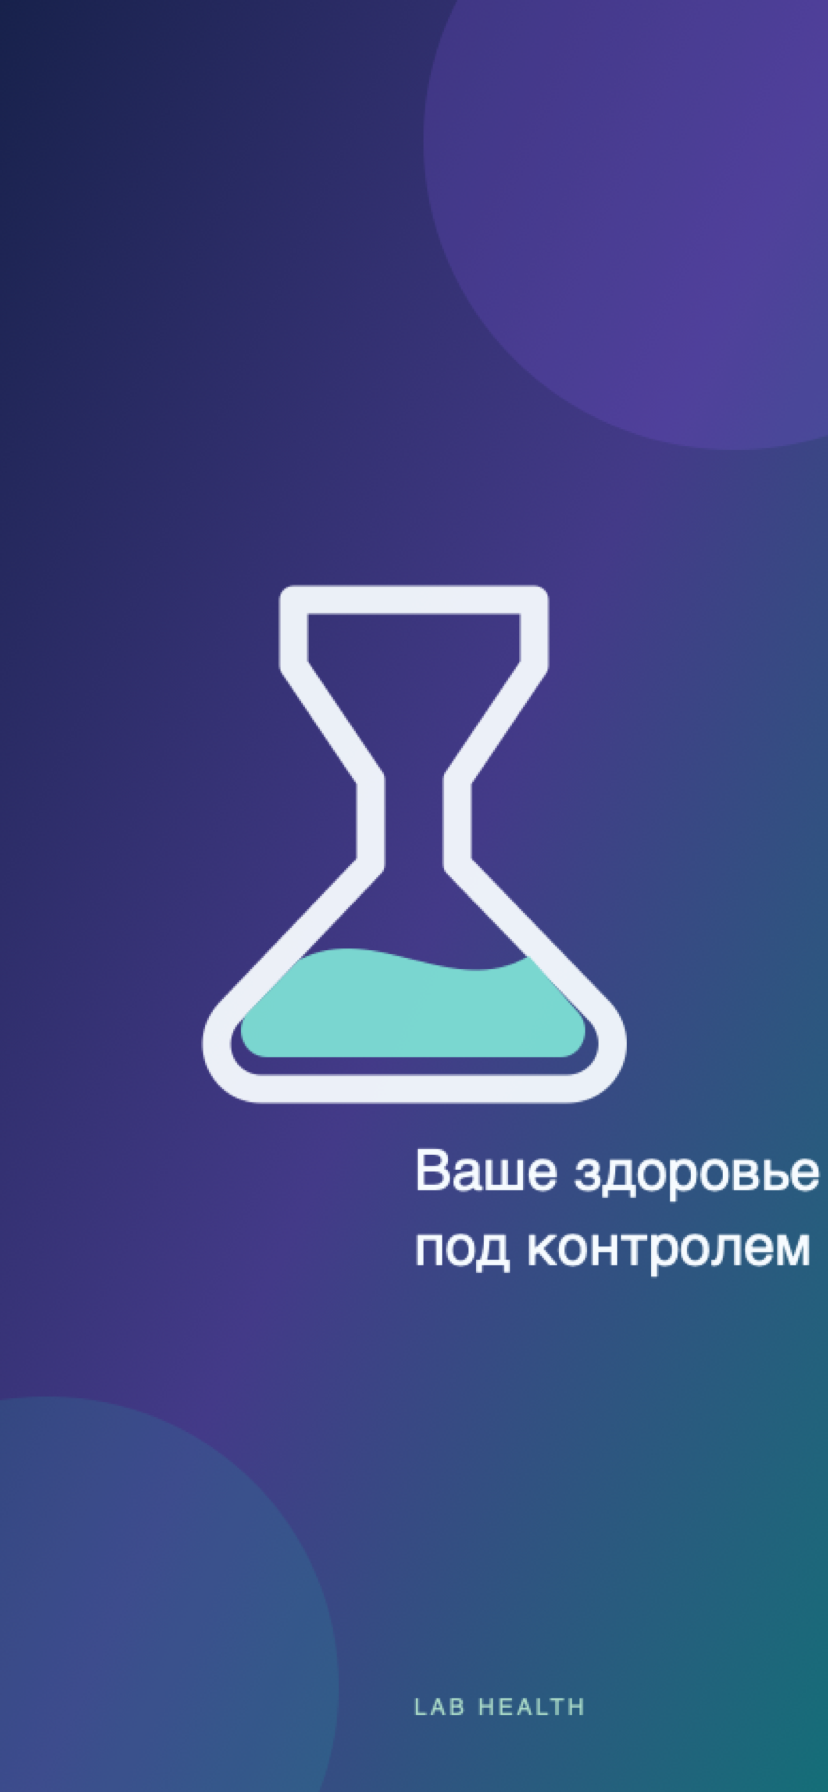
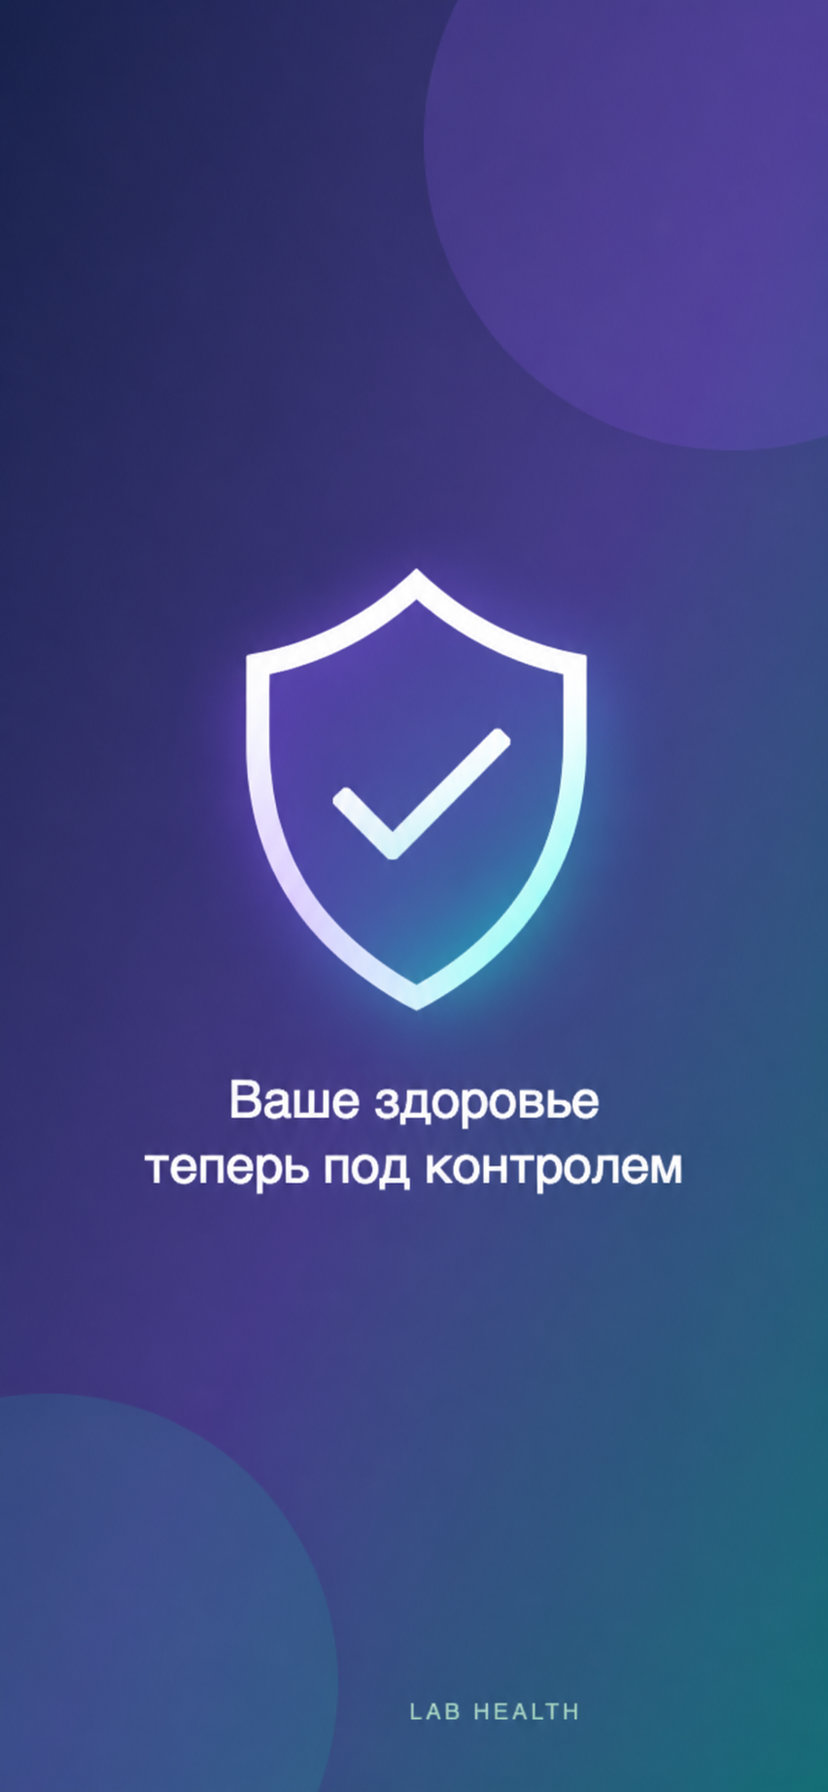
fix: make mobile canvas truly edge to edge

Changed region(s): [[0.1812, 0.3125, 0.9964, 0.7188], [0.4831, 0.9375, 0.6944, 0.9688]]

diff --git a/App.tsx b/App.tsx
@@ -31,7 +31,7 @@ import { colors, shadow } from "./src/theme";
 
 type Tab = "home" | "analyses" | "patients" | "consultations" | "doctors" | "ai" | "guides" | "profile";
 type Asset = { uri: string; name: string; mimeType?: string; file?: Blob };
-const APP_VERSION = process.env.EXPO_PUBLIC_APP_VERSION || "0.9.5";
+const APP_VERSION = process.env.EXPO_PUBLIC_APP_VERSION || "0.9.6";
 const LAST_LOGIN_KEY = "lab.last-login";
 const LAST_NAME_KEY = "lab.last-name";
 const nutritionImages = [require("./assets/nutrition/young.jpg"),require("./assets/nutrition/middle.jpg"),require("./assets/nutrition/senior.jpg")];
@@ -107,6 +107,7 @@ export default function App() {
 
 function AppContent() {
   const [boot, setBoot] = useState(true);
+  const splashOpacity = useRef(new Animated.Value(1)).current;
   const [user, setUser] = useState<User | null>(null);
   const [tab, setTab] = useState<Tab>("home");
   const [analyses, setAnalyses] = useState<Analysis[]>([]);
@@ -126,7 +127,7 @@ function AppContent() {
     if (viewport) viewport.content = "width=device-width, initial-scale=1, maximum-scale=1, user-scalable=no, viewport-fit=cover";
     Object.assign(document.documentElement.style, { width: "100%", height: "100%", overflow: "hidden", overscrollBehavior: "none" });
     Object.assign(document.body.style, { width: "100%", height: "100%", margin: "0", overflow: "hidden", position: "fixed", inset: "0", overscrollBehavior: "none" });
-    if (root) Object.assign(root.style, { width: "100%", height: "100%", overflow: "hidden" });
+    if (root) Object.assign(root.style, { position: "fixed", inset: "0", width: "auto", height: "auto", minHeight: "0", overflow: "hidden" });
   }, []);
   async function refresh(u = user) {
     if (!u) return;
@@ -162,7 +163,7 @@ function AppContent() {
   }
   useEffect(() => {
     (async () => {
-      const minimumSplash = new Promise((resolve) => setTimeout(resolve, 900));
+      const minimumSplash = new Promise((resolve) => setTimeout(resolve, 2000));
       try {
         if (await restoreToken()) {
           const u = await api.me();
@@ -173,11 +174,11 @@ function AppContent() {
         await setToken("");
       } finally {
         await minimumSplash;
-        setBoot(false);
+        Animated.timing(splashOpacity, { toValue: 0, duration: 360, useNativeDriver: true }).start(() => setBoot(false));
       }
     })();
   }, []);
-  if (boot) return <Loading />;
+  if (boot) return <Loading opacity={splashOpacity} />;
   if (!user)
     return (
       <Auth
@@ -247,7 +248,8 @@ function AppContent() {
     : [screenBackground, screenBackground];
   const chromeBackground = immersiveHeader ? "#17214B" : screenBackground;
   return (
-    <LinearGradient colors={chromeColors} start={{x:0,y:0}} end={{x:1,y:1}} style={s.safe}>
+    <View style={s.safe}>
+      {immersiveHeader && <LinearGradient pointerEvents="none" colors={chromeColors} start={{x:0,y:0}} end={{x:1,y:1}} style={s.immersiveBackdrop}/>}
       <SystemChrome dark={immersiveHeader} background={chromeBackground} canvas={screenBackground} />
       <SafeAreaView edges={["top"]} style={s.safeInner}>
       <View style={s.shell}>
@@ -284,7 +286,7 @@ function AppContent() {
         onError={setError}
       />
       </SafeAreaView>
-    </LinearGradient>
+    </View>
   );
 }
 
@@ -308,6 +310,7 @@ function ageFromBirthDate(value: string) {
 }
 
 function Auth({ onDone }: { onDone: (u: User, t: string) => void }) {
+  const entranceOpacity = useRef(new Animated.Value(0)).current;
   const [remembered, setRemembered] = useState(() => Platform.OS === "web" && typeof localStorage !== "undefined" ? localStorage.getItem(LAST_LOGIN_KEY) || "" : "");
   const [rememberedName, setRememberedName] = useState(() => Platform.OS === "web" && typeof localStorage !== "undefined" ? localStorage.getItem(LAST_NAME_KEY) || "" : "");
   const [phase, setPhase] = useState<"welcome" | "pin" | "register" | "about">("welcome");
@@ -327,6 +330,9 @@ function Auth({ onDone }: { onDone: (u: User, t: string) => void }) {
   const age = ageFromBirthDate(form.birthDate);
   const profileReady = age > 0 && Number(form.heightCM) > 0 && Number(form.weightKG) > 0;
   const registrationReady = /^\d{4}$/.test(form.pin) && age > 0 && Number(form.heightCM) > 0 && Number(form.weightKG) > 0;
+  useEffect(() => {
+    Animated.timing(entranceOpacity, { toValue: 1, duration: 460, useNativeDriver: true }).start();
+  }, [entranceOpacity]);
   function remember(user: User) {
     if (Platform.OS !== "web" || typeof localStorage === "undefined") return;
     localStorage.setItem(LAST_LOGIN_KEY, user.email);
@@ -383,12 +389,11 @@ function Auth({ onDone }: { onDone: (u: User, t: string) => void }) {
     setPhase("welcome");
     setError("");
   }
-  const backdrop = <><View style={s.authOrbOne}/><View style={s.authOrbTwo}/><View style={[s.authLabSheet,s.authLabSheetOne]}><Ionicons name="document-text-outline" size={25} color="#B9C6FF"/><View><View style={s.authLabLine}/><View style={[s.authLabLine,{width:46}]}/><View style={[s.authLabLine,{width:30}]}/></View></View><View style={[s.authLabSheet,s.authLabSheetTwo]}><Ionicons name="flask-outline" size={25} color="#7DE0D5"/><View><View style={s.authLabLine}/><View style={[s.authLabLine,{width:38}]}/></View></View></>;
   return (
-    <LinearGradient colors={["#17214B","#3D367A","#146E78"]} start={{x:0,y:0}} end={{x:1,y:1}} style={s.authOuter}>
-      <SystemChrome dark background="#17214B" canvas="#146E78"/>
+    <Animated.View style={[s.authOuter,{opacity:entranceOpacity}]}>
+      <Image source={require("./assets/auth-background-v2.png")} resizeMode="cover" style={s.fullBleedImage}/>
+      <SystemChrome dark background="#17214B" canvas="#17214B"/>
       <SafeAreaView edges={["top","right","bottom","left"]} style={s.authScreen}>
-        {backdrop}
         {phase === "welcome" && <View style={s.authWelcome}>
           <View style={s.authWelcomeCopy}><Text style={s.authWelcomeTitle}>{rememberedName ? `Здравствуйте, ${rememberedName}` : "Добро пожаловать"}</Text><Text style={s.authWelcomeSlogan}>{remembered ? "Ваше здоровье под контролем" : "Все результаты здоровья — в одном месте"}</Text></View>
           <View style={s.authWelcomeActions}>{remembered ? <><Pressable accessibilityRole="button" style={({pressed})=>[s.authLoginGlass,pressed&&{transform:[{scale:.98}],opacity:.7}]} onPress={()=>{setPhase("pin");setForm(current=>({...current,pin:""}));}}><Text style={s.authLoginGlassText}>Войти</Text></Pressable><Pressable accessibilityRole="button" style={({pressed})=>[s.authSwitchUser,pressed&&{opacity:.6}]} onPress={switchUser}><Text style={s.authSwitchUserText}>Сменить пользователя</Text></Pressable></> : <><Button label="Зарегистрироваться" icon="person-add-outline" onPress={()=>{setRegisterStep("profile");setPhase("register");}}/><Pressable accessibilityRole="button" style={s.authSecondaryButton} onPress={()=>setPhase("about")}><Text style={s.authSecondaryText}>О приложении</Text></Pressable><Pressable accessibilityRole="button" style={s.authExistingButton} onPress={()=>{setForm(current=>({...current,email:"marat",pin:""}));setRememberedName("Марат");setPhase("pin");}}><Text style={s.authExistingText}>Вход для врача</Text></Pressable></>}</View>
@@ -402,7 +407,7 @@ function Auth({ onDone }: { onDone: (u: User, t: string) => void }) {
         {phase === "register" && registerStep === "pin" && <View style={s.authRegisterPIN}><Pressable accessibilityRole="button" accessibilityLabel="Назад" style={s.authBack} onPress={()=>setRegisterStep("profile")}><Ionicons name="arrow-back" size={26} color={colors.white}/></Pressable><View><Text style={s.authWelcomeTitle}>Создайте PIN</Text><Text style={s.authRegisterHint}>Четыре цифры для быстрого входа</Text></View><PinPad value={form.pin} dark reveal onChange={changePIN}/>{error?<Text style={s.authPINError}>{error}</Text>:null}<Button label={busy?"Создаём…":"Зарегистрироваться"} disabled={!registrationReady||busy} onPress={()=>void register()}/></View>}
         <Text style={s.authVersionCompact}>LAB HEALTH · v{APP_VERSION}</Text>
       </SafeAreaView>
-    </LinearGradient>
+    </Animated.View>
   );
 }
 
@@ -1830,12 +1835,12 @@ function Banner({ text, onClose }: { text: string; onClose: () => void }) {
     </View>
   );
 }
-function Loading() {
+function Loading({ opacity }: { opacity: Animated.Value }) {
   return (
-    <LinearGradient colors={["#17214B","#3D367A","#146E78"]} start={{x:0,y:0}} end={{x:1,y:1}} style={s.loading}>
-      <SystemChrome dark background="#17214B" canvas="#146E78"/>
-      <View style={s.loadingOrb}/><Ionicons name="shield-checkmark-outline" size={58} color="#92E4DA"/><Text style={s.loadingTitle}>Ваше здоровье под контролем</Text><ActivityIndicator color="#C6F4EE"/>
-    </LinearGradient>
+    <Animated.View style={[s.loading,{opacity}]}>
+      <Image source={require("./assets/startup-shield-v2.png")} resizeMode="cover" style={s.fullBleedImage}/>
+      <SystemChrome dark background="#17214B" canvas="#17214B"/>
+    </Animated.View>
   );
 }
 const firstName = (x: string) => x.trim().split(/\s+/)[0] || x;
@@ -1855,6 +1860,7 @@ const date = (x: string) =>
 
 const s = StyleSheet.create({
   safe: { flex: 1, width: "100%", backgroundColor: colors.paper, overflow: "hidden" },
+  immersiveBackdrop: { position: "absolute", left: 0, right: 0, top: 0, height: 340 },
   safeHome: { backgroundColor: "#17214B" },
   safeInner: { flex: 1, width: "100%", backgroundColor: "transparent" },
   shell: { flex: 1, width: "100%", flexDirection: "row", overflow: "hidden" },
@@ -2167,7 +2173,8 @@ const s = StyleSheet.create({
     maxWidth: 420,
     marginTop: 5,
   },
-  authOuter: { flex: 1, backgroundColor: colors.paper },
+  authOuter: { flex: 1, backgroundColor: "#17214B", overflow: "hidden" },
+  fullBleedImage: { ...StyleSheet.absoluteFillObject, width: "100%", height: "100%" },
   authScreen: { flex: 1, width: "100%", overflow: "hidden", backgroundColor: "transparent" },
   authWelcome: { flex: 1, width: "100%", maxWidth: 620, alignSelf: "center", justifyContent: "space-between", paddingHorizontal: 24, paddingTop: 150, paddingBottom: 38 },
   authWelcomeCopy: { gap: 12, maxWidth: 520 },
@@ -2990,6 +2997,4 @@ const s = StyleSheet.create({
     overflow: "hidden",
     backgroundColor: "#17214B",
   },
-  loadingOrb: { position: "absolute", width: 360, height: 360, borderRadius: 180, right: -170, top: -120, backgroundColor: "#8B5CF63A" },
-  loadingTitle: { maxWidth: 300, color: colors.white, fontSize: 27, lineHeight: 34, fontWeight: "900", textAlign: "center", letterSpacing: -.6 },
 });
